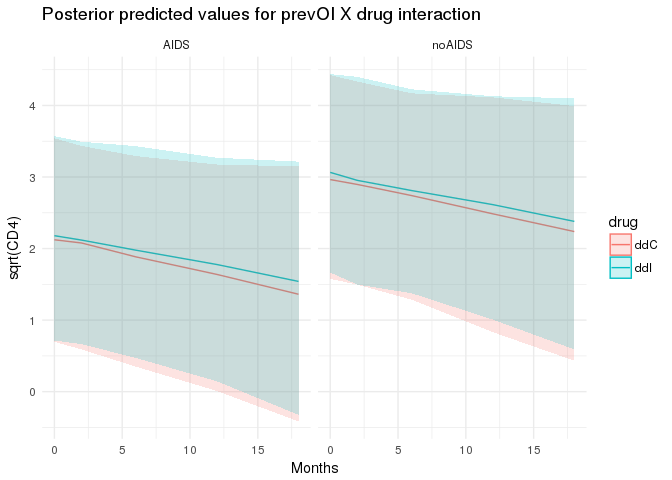
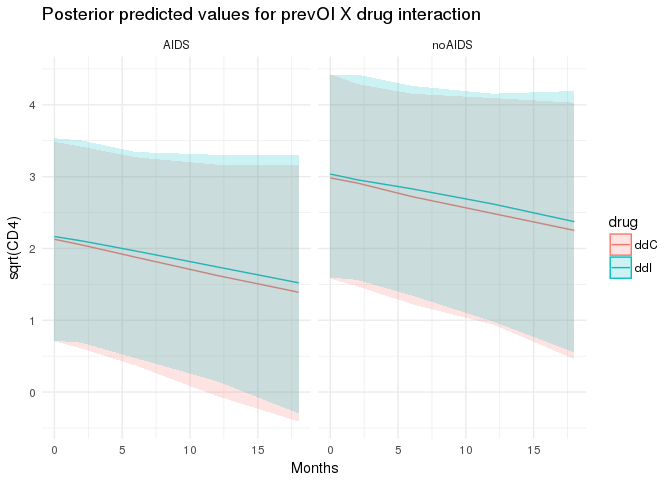
yet another update to the markdown doc

diff --git a/summarize_aids_fit.md b/summarize_aids_fit.md
@@ -451,8 +451,9 @@ print(f7)
 Let's see how closely the estimated 'bs' baseline hazard matches our observed KM curves.
 
 ``` r
-# TODO uncomment once run has finished
-# f7.ps_check
+## TODO uncomment once finished
+#f7.ps_check <- readRDS(file.path(CACHE_DIR, 'f7.ps_check.rds'))
+#f7.ps_check
 ```
 
 #### Summarize parameter estimates graphically
@@ -564,6 +565,16 @@ bayesplot::bayesplot_grid(p_joint, p_long,
 At the population level, how is the outcome different among patients with an AIDS diagnosis, depending on treatment?
 
 Here we will consider only data known at baseline, then draw from the posterior predictive distribution under two treatment scenarios.
+
+``` r
+ggplot(with_aids_ddI_ppsurv %>% dplyr::mutate(drug = 'ddI', prevOI = 'AIDS') %>%
+         dplyr::bind_cols(with_aids_ddC_ppsurv %>% dplyr::mutate(drug = 'ddC', prevOI = 'AIDS')),
+       aes(x = obstime, y = survpred, group = drug, colour = drug)) +
+  geom_line() +
+  facet_wrap(~prevOI)
+```
+
+![](summarize_aids_fit_files/figure-markdown_github/summ-drug-effect-aids-1.png)
 
 The decision problem
 --------------------
